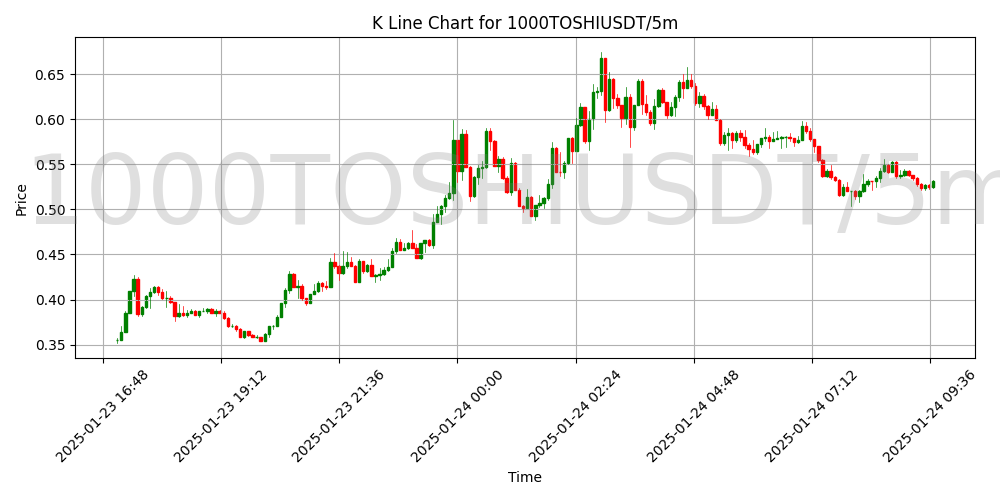
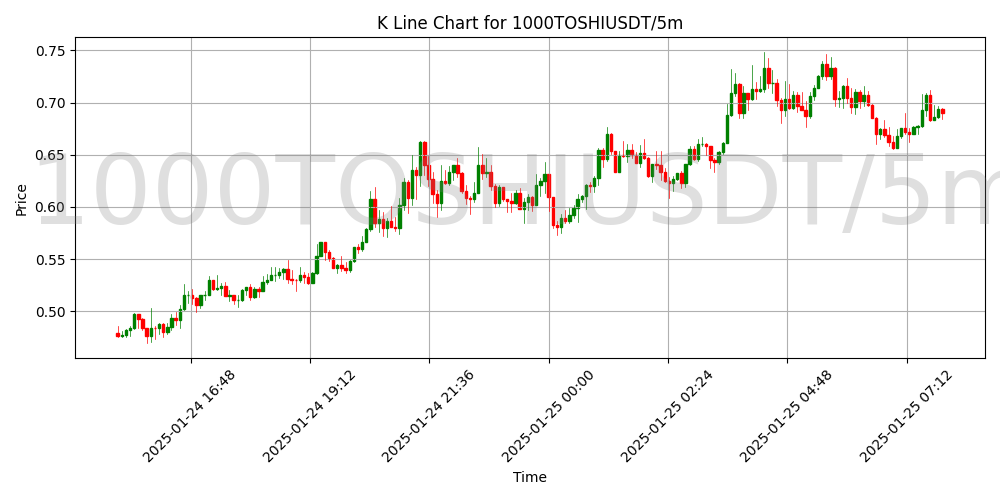
beta0.2

diff --git a/tranding/discord/index.js b/tranding/discord/index.js
@@ -4,6 +4,7 @@ const path = require('path');
 const fs = require('fs');
 const { promisify } = require('util');
 const { Client, GatewayIntentBits, REST, Routes, SlashCommandBuilder, ButtonBuilder, ButtonStyle, ActionRowBuilder,Events,StringSelectMenuBuilder } = require('discord.js');
+const schedule = require('node-schedule');
 //const { token, clientId, guildId } = require('./config.json'); // 確保你有一個 config.json 文件，其中包含你的 Discord 機器人 token, clientId 和 guildId
 require('dotenv').config({ path: './token and something.env' });
 
@@ -38,10 +39,11 @@ client.once(Events.ClientReady, async c => {
             await executeHourlyTask(channel);
         }, 3600000); // 每3600000毫秒（1小時）執行一次
 
-        setInterval(async() => {
+        // 每天早上8點執行
+        schedule.scheduleJob('0 8 * * *', async () => {
             await channel.send('@everyone 早安 該賺錢了 yoyo');
             await executeAndSendImage(channel);
-        }, 86400000); // 每86400000毫秒（24小時）執行一次
+        });
     }
 });
 
@@ -72,7 +74,7 @@ const commands = [
         )
         .addStringOption(option => 
             option.setName('time')
-                .setDescription('時間範圍')
+                .setDescription('時間級別')
                 .setRequired(false)
                 .addChoices(
                     { name: '1m', value: '1m' },
@@ -84,6 +86,7 @@ const commands = [
                 )
         ),
     new SlashCommandBuilder().setName('owo').setDescription('按鈕列表'),
+    new SlashCommandBuilder().setName('調教列表').setDescription('目前所有指令'),
     new SlashCommandBuilder().setName('ping').setDescription('Replies with Pong!'),
 ]
     .map(command => command.toJSON());
@@ -144,6 +147,7 @@ client.on('interactionCreate', async interaction => {
     const { commandName,options } = interaction;
 
     if (commandName === '搜尋') {
+        
         const searchText = options.getString('coin');
         const timeRange = options.getString('time');
         // 讀取 alltrade.json 文件
@@ -154,38 +158,24 @@ client.on('interactionCreate', async interaction => {
         const results = alltrade.filter(trade => trade.Symbol.includes(searchText)).map(trade => trade.Symbol);
 
         // 保存用戶選擇到 userchose.txt
-        const userChoice = `symbol=${searchText} \n time=${timeRange || '未指定'}\n`;
-        fs.appendFileSync('userchose.txt', userChoice);
+        const userChoice = `symbol=${searchText} \ntime=${timeRange || '未指定'}\n`;
+        fs.writeFileSync('userchose.txt', userChoice);
 
         // 發送結果到 Discord 頻道
+        await interaction.deferReply({ ephemeral: true }); // 延遲回應，以避免錯誤
 
+        setTimeout(async () => {
+            await interaction.followUp({ content: 'K線圖加載中dayo', ephemeral: true });
+            await executechose(channel);
+        }, 1000);
     } 
 
+    if (commandName === '調教列表') {
+        await interaction.reply('目前有以下指令: \n/搜尋 可尋找需要幣種 \n/owo 呼叫按鈕區塊 \n/ping');
+        }
+
     if (commandName === 'owo') {
-        //1h
-        const onehour = new ButtonBuilder()
-            .setCustomId('primary_1hour')
-            .setLabel('1H')
-            .setStyle(ButtonStyle.Primary);
-        //4h
-        const fourhour = new ButtonBuilder()
-            .setCustomId('primary_4hour')
-            .setLabel('4H')
-            .setStyle(ButtonStyle.Primary);
-        //漲符榜
-        const highline = new ButtonBuilder()
-            .setCustomId('primary_highline')
-            .setLabel('漲幅榜')
-            .setStyle(ButtonStyle.Primary);
-
-        const row = new ActionRowBuilder().addComponents(onehour, fourhour, highline );
-
-        
-        await interaction.reply({
-            content: '提供所有的時區',
-            ephemeral: true,
-            components: [row],
-        });
+        await executeButtonTask(interaction);
     } else if (commandName === 'ping') {
         await interaction.reply('Pong!');
     }
@@ -200,28 +190,115 @@ client.on('interactionCreate', async interaction => {
     if (!interaction.isButton()) return;
 
     await interaction.deferReply({ ephemeral: true }); // 延遲回應，以避免錯誤
+    //主按鈕區塊
 
     if (interaction.customId === 'primary_1hour') {
         setTimeout(async () => {
             await interaction.followUp({ content: '1小時K線圖加載中dayo', ephemeral: true });
             await executeHourlyTask(channel);
-        }, 10000);
+        }, 1000);
     } else if (interaction.customId === 'primary_4hour') {
         setTimeout(async () => {
             await interaction.followUp({ content: '4小時K線圖加載中dayo', ephemeral: true });
-            await executeHourlyTask(channel);
-        }, 10000);
+            await execute4HourlyTask(channel);
+        }, 1000);
     } else if (interaction.customId === 'primary_highline') {
         setTimeout(async () => {
             await interaction.followUp({ content: '漲幅榜加載中dayo', ephemeral: true });
             await executeAndSendImage(channel);
         }, 10000);
-    } 
+    } else if (interaction.customId.startsWith('chose_')) {
+        setTimeout(async () => {
+            await interaction.followUp({ content: `${interaction.customId.split('_')[1]} K線圖加載中dayo`, ephemeral: true });
+            await executechose(channel, interaction); // 傳遞 interaction 參數
+        }, 1000);
+    }else {
+        await executechose(interaction); // 傳遞 interaction 參數
+    }
 });
 
 // Log in to Discord with your client's token
 client.login(token);
 //膜塊區
+    //按鈕區塊
+async function executeButtonTask(interaction) {
+    try{
+    //1h
+    const onehour = new ButtonBuilder()
+    .setCustomId('primary_1hour')
+    .setLabel('1H')
+    .setStyle(ButtonStyle.Primary);
+    //4h
+    const fourhour = new ButtonBuilder()
+        .setCustomId('primary_4hour')
+        .setLabel('4H')
+        .setStyle(ButtonStyle.Primary);
+    //漲符榜
+    const highline = new ButtonBuilder()
+        .setCustomId('primary_highline')
+        .setLabel('漲幅榜')
+        .setStyle(ButtonStyle.Primary);
+
+    const row = new ActionRowBuilder().addComponents(onehour, fourhour, highline );
+
+
+    await interaction.reply({
+        content: '提供所有的時區',
+        ephemeral: true,
+        components: [row],
+    });
+    } catch (error) {
+        console.error(`exec error: ${error}`);
+    }
+}
+
+    //額外時間區塊
+async function executechosetime(interaction) {
+    try{
+    //1m
+    const oneminute = new ButtonBuilder()
+    .setCustomId('chose_1minute')
+    .setLabel('1M')
+    .setStyle(ButtonStyle.Primary);
+    //5m
+    const fiveminute = new ButtonBuilder()
+        .setCustomId('chose_5minute')
+        .setLabel('5M')
+        .setStyle(ButtonStyle.Primary);
+    //15m
+    const fifteenminute = new ButtonBuilder()
+        .setCustomId('chose_15minute')
+        .setLabel('15M')
+        .setStyle(ButtonStyle.Primary);
+    //30m
+    const thirtyminute = new ButtonBuilder()
+        .setCustomId('chose_30minute')
+        .setLabel('30M')
+        .setStyle(ButtonStyle.Primary);
+    //1h
+    const onehour = new ButtonBuilder()
+        .setCustomId('chose_1hour')
+        .setLabel('1H')
+        .setStyle(ButtonStyle.Primary);
+    //4h
+    const fourhour = new ButtonBuilder()
+        .setCustomId('chose_4hour')
+        .setLabel('4H')
+        .setStyle(ButtonStyle.Primary);
+
+    const row = new ActionRowBuilder().addComponents(oneminute, fiveminute, fifteenminute, thirtyminute, onehour, fourhour);
+    
+    await interaction.reply({
+        content: '提供所有的時區',
+        ephemeral: true,
+        components: [row],
+    });
+    
+    } catch (error) {
+        console.error(`exec error: ${error}`);
+    }
+}
+
     //漲幅榜
 async function executeAndSendImage(channel) {
     try {
@@ -248,7 +325,7 @@ async function executeAndSendImage(channel) {
                 console.error(`圖片不存在: ${imagePath}`);
             }
         }
-        await channel.send('需要什麼再/owo 一下dayo');
+        await channel.send('需要什麼再按一下或/調教列表dayo');
     } catch (error) {
         console.error(`exec error: ${error}`);
     }
@@ -278,7 +355,7 @@ async function executeHourlyTask(channel) {
             } catch (err) {
                 console.error(`圖片不存在: ${EthimagePath}`);
             }
-            await channel.send('需要什麼再/owo一下dayo');
+            await channel.send('需要什麼再按一下或/調教列表dayo');
     } catch (error) {
         console.error(`exec error: ${error}`);
     }
@@ -309,9 +386,29 @@ async function execute4HourlyTask(channel) {
             } catch (err) {
                 console.error(`圖片不存在: ${EthimagePath}`);
             }
-            await channel.send('需要什麼再/owo一下dayo');
+            await channel.send('需要什麼再按一下或/調教列表dayo');
     } catch (error) {
         console.error(`exec error: ${error}`);
     }
     
+}
+//指定K線圖
+async function executechose(channel, interaction) {
+    try {
+        const { stdout } = await execPromise('python "C:\\Users\\Rushia is boingboing\\Desktop\\tranding\\github\\pybit-5.7.0\\examples\\choseKline.py"');
+        // 發送輸出結果到 Discord 頻道
+        await channel.send(`呼叫的K線圖呈上:dayo`);
+            const imagePath = path.join('C:\\Users\\Rushia is boingboing\\Desktop\\tranding\\discord\\user', `chose.png`);
+            try {
+                await fs.promises.access(imagePath, fs.constants.F_OK);
+                await channel.send({ files: [imagePath] });
+                console.log(`圖片已發送: ${imagePath}`);
+            } catch (err) {
+                console.error(`圖片不存在: ${imagePath}`);
+            }
+            await channel.send('需要什麼再按一下或/調教列表dayo');
+            await executechosetime(interaction);
+        } catch (error) {
+            console.error(`exec error: ${error}`);
+        }
 }

diff --git a/tranding/github/pybit-5.7.0/examples/choseKline.py b/tranding/github/pybit-5.7.0/examples/choseKline.py
@@ -16,6 +16,26 @@ BYBIT_API_KEY = os.getenv("BYBIT_API_KEY")
 BYBIT_API_SECRET = os.getenv("BYBIT_API_SECRET")
 TESTNET = False  # True 表示使用測試網
 
+# 讀取文件
+def get_user_choice(filepath):
+    with open(filepath, 'r',encoding='utf-8') as file:
+        lines = file.readlines()
+        symbol = str(lines[0].split('=')[1].strip())
+        interval = lines[1].split('=')[1].strip()
+        if interval =="未指定":interval = "5m"
+        times = interval
+        if interval =="1m":interval = 1
+        elif interval =="5m":interval = 5
+        elif interval =="15m":interval = 15
+        elif interval =="30m":interval = 30
+        elif interval =="1h":interval = 60
+        elif interval =="4h":interval = 240
+    return symbol, interval,times
+
+# 測試讀取 userchose.txt 文件
+user_choice_file = 'C:\\Users\\Rushia is boingboing\\Desktop\\tranding\\discord\\userchose.txt'
+symbol, interval ,times= get_user_choice(user_choice_file)
+
 class BybitKlineWrapper:
     def __init__(self, api_key: str = None, api_secret: str = None, testnet: bool = None):
         self.session = HTTP(
@@ -24,7 +44,7 @@ class BybitKlineWrapper:
             testnet=testnet,
         )
 
-    def get_kline_data(self, symbol: str = "BTCUSDT", interval: str = "60", limit: int = 20, timestamp: int = None):
+    def get_kline_data(self, symbol: str = "BTCUSDT", interval: str = "240", limit: int = 20, timestamp: int = None):
         if timestamp is None:
             timestamp = int(time.time() * 1000)
 
@@ -75,24 +95,31 @@ class BybitKlineWrapper:
 
         fig, ax = plt.subplots(figsize=(10, 5))
 
+        # 設置 K 線圖的寬度
+        if interval == 1: width=0.0005
+        elif interval == 5: width=0.002
+        elif interval == 15: width=0.005
+        elif interval == 30: width=0.01
+        elif interval == 60: width=0.02
+        elif interval == 240: width=0.1
         # 繪製 K 線圖，調整 width 參數以增加 K 線的寬度
-        candlestick_ohlc(ax, df[['timestamp', 'open', 'high', 'low', 'close']].values, width=0.02, colorup='g', colordown='r')
+        candlestick_ohlc(ax, df[['timestamp', 'open', 'high', 'low', 'close']].values, width, colorup='g', colordown='r')
 
         ax.xaxis.set_major_formatter(mdates.DateFormatter('%Y-%m-%d %H:%M'))
         plt.xticks(rotation=45)
-        plt.title('BTC K Line Chart 1H')
+        plt.title(f"{symbol}/{times} Kline")
         plt.xlabel('Time')
         plt.ylabel('Price')
         plt.grid()
         plt.tight_layout()
         
         # 添加浮水印
-        plt.text(0.5, 0.5, f'BTCUSDT/1H', fontsize=70, color='gray', alpha=0.25,
+        plt.text(0.5, 0.5, f'{symbol}/{times}', fontsize=70, color='gray', alpha=0.25,
                  ha='center', va='center', transform=ax.transAxes, rotation=0)
 
 
         # 儲存 K 線圖到 K highline 資料夾
-        plt.savefig("C:\\Users\\Rushia is boingboing\\Desktop\\tranding\\discord\\K line\\Klinetest.png")  # 保存為 PNG 檔案
+        plt.savefig("C:\\Users\\Rushia is boingboing\\Desktop\\tranding\\discord\\user\\chose.png")  # 保存為 PNG 檔案
         plt.close()  # 關閉圖表以釋放記憶體
         #plt.show()
 # 使用範例
@@ -103,4 +130,4 @@ wrapper = BybitKlineWrapper(
 )
 
 # 獲取 BTCUSDT 的 K 線數據，20根 K 線，60分間隔
-wrapper.get_kline_data(symbol="BTCUSDT", interval="60", limit=200)
+wrapper.get_kline_data(symbol, interval, limit=200)

diff --git a/tranding/github/pybit-5.7.0/examples/BTC4H.py b/tranding/github/pybit-5.7.0/examples/BTC4H.py
@@ -102,4 +102,7 @@ wrapper = BybitKlineWrapper(
 )
 
 # 獲取 BTCUSDT 的 K 線數據，20根 K 線，60分間隔
-wrapper.get_kline_data(symbol="BTCUSDT", interval="240", limit=100)
+wrapper.get_kline_data(symbol="BTCUSDT", interval="60", limit=100)
+
+
+
